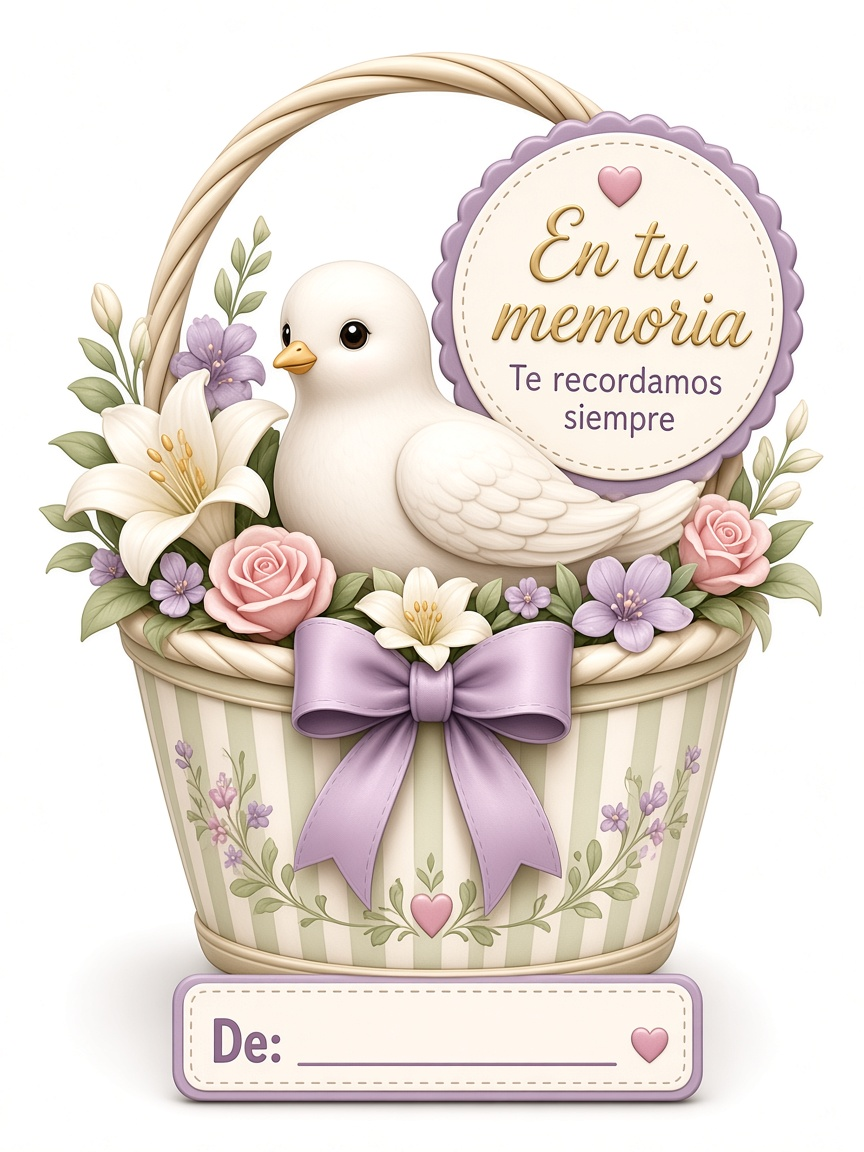
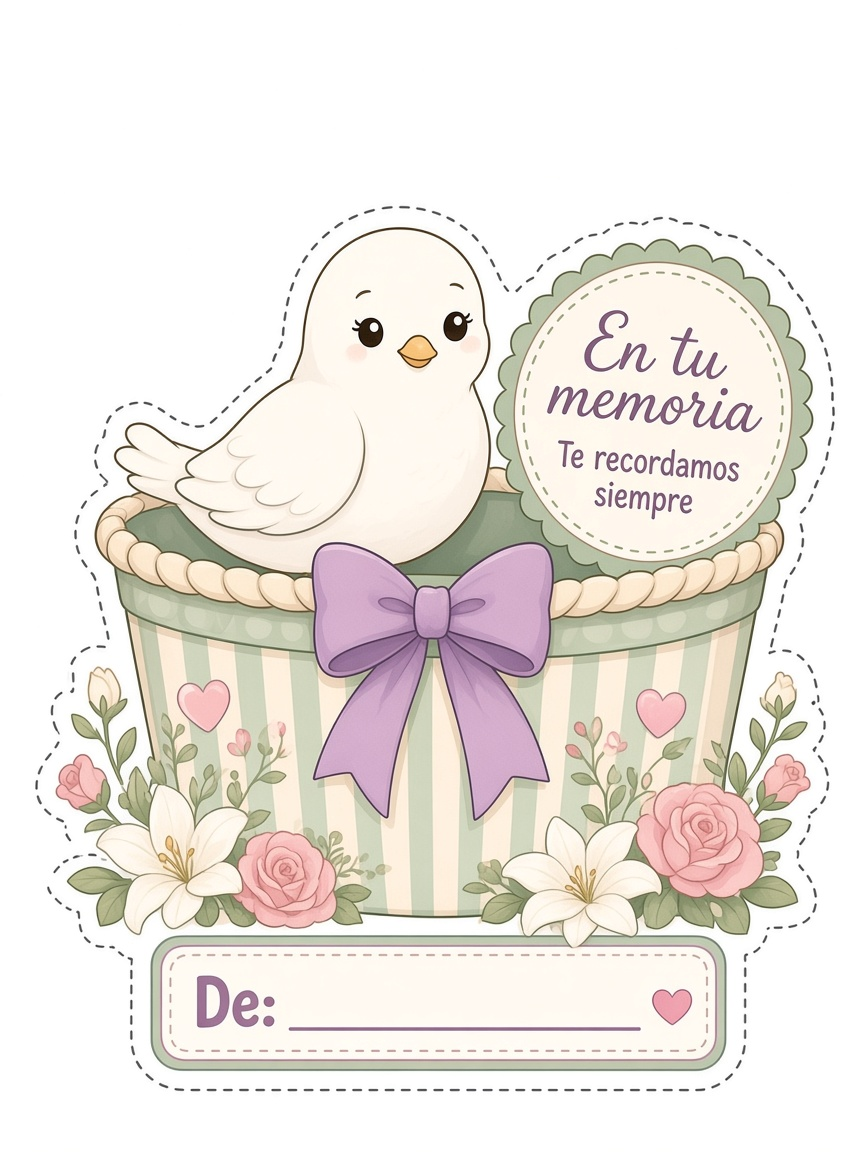
Cambiar conjuntos a estilo sticker 2D para plotter
Reemplaza el look 3D por ilustración plana tipo sticker
con borde blanco y línea de corte, listos para troquelar.

diff --git a/muestras-floreria/README.md b/muestras-floreria/README.md
@@ -2,10 +2,10 @@
 
 Paquete de muestras para mostrar al cliente / imprenta antes de producir.
 
-## Conjuntos (pieza única, estilo osos/abuelita)
+## Conjuntos sticker (para plotter)
 
-Un solo topper unido: personaje + canasta + badge + “De: ____”.  
-No son pliegos de stickers sueltos.
+Estilo **sticker 2D** (no render 3D): borde blanco + línea punteada de corte.  
+Estructura tipo osos/abuelita: personaje + canasta + badge + “De: ____”.
 
 | Archivo | Motivo |
 |---|---|
